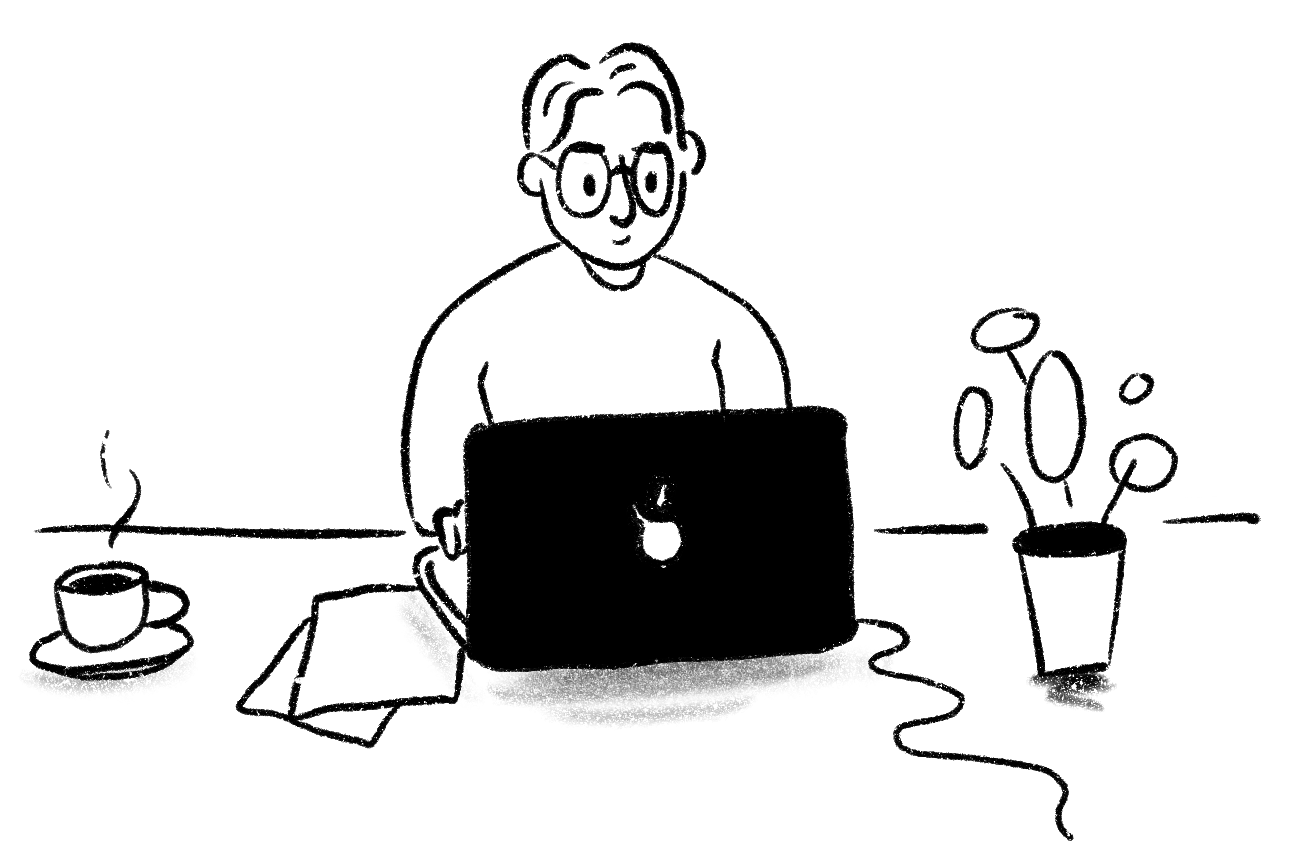
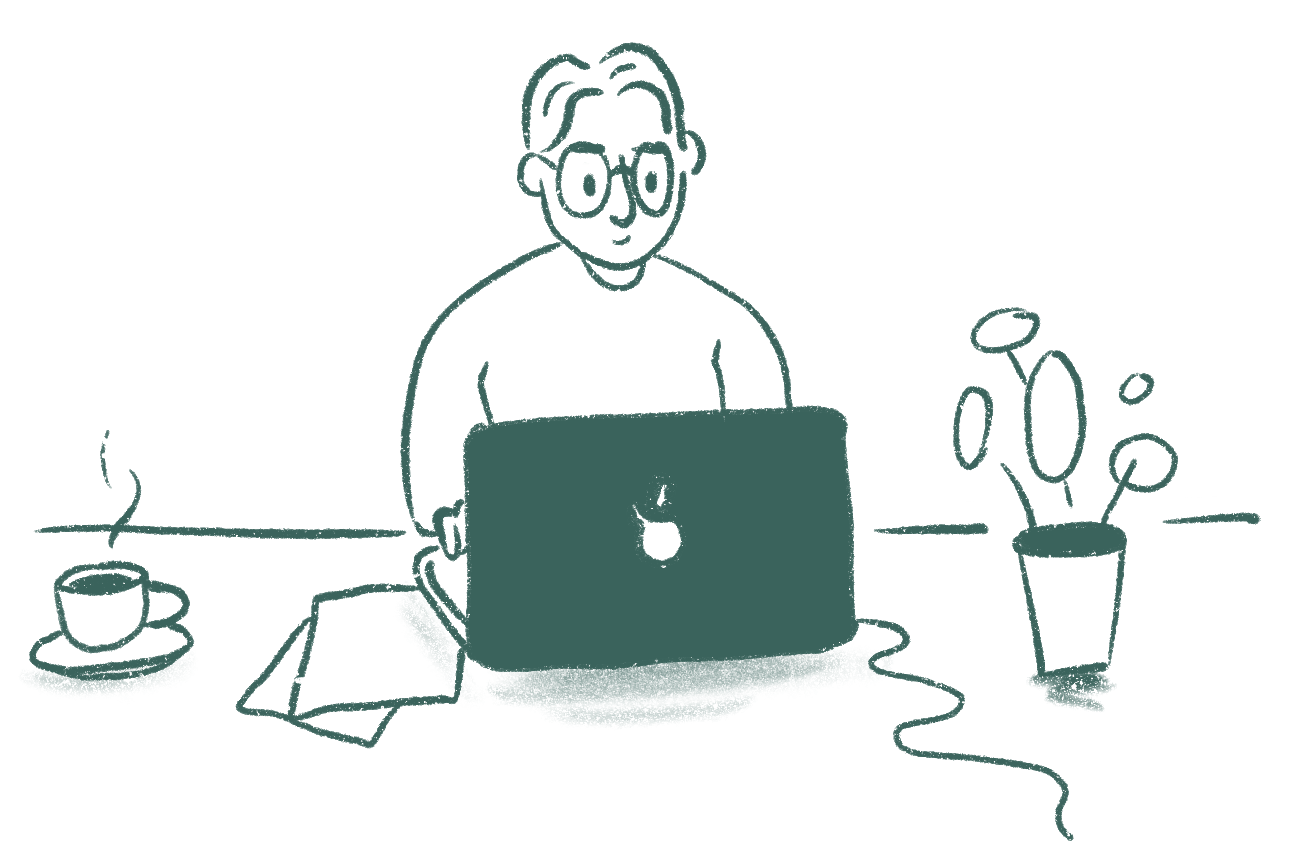
recolors

diff --git a/main-styles.css b/main-styles.css
@@ -16,9 +16,9 @@ font weights: 300,400,500,600,700,800,900
 :root {
     --white-color: #ffffff;
     --black-color: #313131;
-    --black-color-inactive: #31313180;
-    --background-color: #e4e3da;
-    --text-color: #313131;
+    --black-color-inactive: #817E75;
+    --background-color: #F0EDE0;
+    --text-color: #3A635C;
     --font-main: 'Inter', sans-serif;
     --font-weight-regular: 400;
     --font-weight-medium: 500;
@@ -45,22 +45,21 @@ a {
 
 /* -------------------------------------Type Styles---------------------------------- */
 h1 {
-    color: #2D2D2D;
+    color: var(--text-color);
 
     font-family: var(--font-main);
-    font-style: normal;
     font-weight: 700;
+    font-style: normal;
     font-size: 8em;
-    line-height: 120%;
+    line-height: 100%;
     /* or 156px */
-    text-align: center;
     letter-spacing: -0.04em;
 }
 
 h2 {
     padding:0%;
     margin:0px;
-    color: #2D2D2D;
+    color: var(--text-color);
 
     font-family: var(--font-main);
     font-style: normal;
@@ -84,7 +83,7 @@ h3 {
 
     letter-spacing: -0.04em;
 
-    color: #2D2D2D;
+    color: var(--text-color);
 }
 
 h4 {
@@ -100,13 +99,13 @@ h4 {
 
     letter-spacing: -0.04em;
 
-    color: #2d2d2d83;
+    color: var(--text-color);
 }
 
 h5 {
     padding:0%;
     margin:0px;
-    color: #2D2D2D;
+    color: var(--text-color);
 
     font-family: var(--font-main);
     font-style: normal;
@@ -140,7 +139,7 @@ nav ol {
 
 nav a {
     text-decoration: none;
-    color: var(--black-color);
+    color: var(--text-color);
 }
 
 .link-active {
@@ -200,7 +199,7 @@ nav a {
 
 footer {
     margin:0px;
-    background-color: var(--black-color);
+    background-color: var(--text-color);
 
     display: grid;
     padding: 50px;
@@ -212,6 +211,7 @@ footer {
 .footer-icon {
     grid-column: 1 / 2;
     grid-row: 1;
+    width: 125px;
 }
 
 .foot-list-title {
@@ -360,7 +360,7 @@ footer p {
         height: 100%;
         bottom: 0;
         left: 0;
-        background-color: #ffee02;
+        background-color: #00FFD3;
         transform-origin: bottom left;
         transition: transform 0.25s ease-out;
         z-index: -1;
@@ -384,7 +384,7 @@ footer p {
         height: 100%;
         bottom: 0;
         left: 0;
-        background-color: #ffee02;
+        background-color: #00FFD3;
         transform-origin: bottom right;
         transition: transform 0.25s ease-out;
         z-index: -1;

diff --git a/index.html b/index.html
@@ -10,7 +10,7 @@
     <link rel="stylesheet" type="text/css" href="main-styles.css"/>
     
     <!-- Font support -->
-    <link rel="preconnect" href="https://fonts.googleapis.com"> 
+    <link rel="stylesheet" href="https://use.typekit.net/wah1vte.css">
     <link rel="preconnect" href="https://fonts.gstatic.com" crossorigin> 
     <link href="https://fonts.googleapis.com/css2?family=Inter:wght@300;400;500;600;700;800;900&display=swap" rel="stylesheet">
 </head>
@@ -37,7 +37,6 @@
 
         <div class="hero-type-cont">
             <h2 id="hero-par">I’m a hybrid designer who loves to help brands and independent creators enhance who they are by unifying their visuals, all while catering to their target audience.</h2>
-            <h4 id="hero-cap">The way we handle our digital footprint is more important than ever. Thats why it is important to put its growth in the hands of someone who knows the climate like the back of their hand.</h4>
         </div>
         
         <!-- Line 2 - What can I do for you?  -->
@@ -86,7 +85,7 @@
     </section>
 </body>
 <footer>
-    <img src="img/max-lair-logo.svg"class="footer-icon">
+    <img src="img/smile-icon.svg" class="footer-icon">
     <div class="pages">
         <a class="foot-list-title">pages</a>
         <a href="subpages/index.html">home</a>

diff --git a/index-styles.css b/index-styles.css
@@ -21,7 +21,7 @@
     height: auto;
     float: right;
     transform-origin: bottom right;
-    opacity: 80%;
+    opacity: 100%;
 }
 
 #hero-name{
@@ -115,7 +115,7 @@
 
 .services-container {
     margin-top: 300px;
-    margin-bottom: 200px;
+    margin-bottom: 125px;
     display: flex;
     flex-direction: row;
     flex-wrap: wrap;
@@ -130,8 +130,11 @@
     align-items: center;
     justify-content: top;
     max-width: 325px;
-    
+    padding: 25px;
+    border-radius: 15px;
+    background-color: var(--text-color);
     visibility: hidden;
+    filter: drop-shadow(rgba(0, 0, 0, 0.25) 0px 4px 4px);
 }
 
 .service img {
@@ -152,12 +155,14 @@
     word-wrap: break-word;
     text-align: center;
     justify-content: center;
+    color: var(--background-color);
 }
 
 .service h4 {
     word-wrap: break-word;
     text-align: center;
     justify-content: center;
+    color: var(--background-color);
 }
 
 

diff --git a/subpages/portfolio.html b/subpages/portfolio.html
@@ -11,6 +11,7 @@
     <link rel="stylesheet" type="text/css" href="../main-styles.css"/>
     
     <!-- Font support -->
+    <link rel="stylesheet" href="https://use.typekit.net/wah1vte.css">
     <link rel="preconnect" href="https://fonts.googleapis.com"> 
     <link rel="preconnect" href="https://fonts.gstatic.com" crossorigin> 
     <link href="https://fonts.googleapis.com/css2?family=Inter:wght@300;400;500;600;700;800;900&display=swap" rel="stylesheet">
@@ -66,7 +67,7 @@
 </body>
 
 <footer>
-    <img src="../img/max-lair-logo.svg"class="footer-icon">
+    <img src="../img/smile-icon.svg"class="footer-icon">
     <div class="pages">
         <a class="foot-list-title">pages</a>
         <a href="../index.html">home</a>

diff --git a/subpages/portfolio-styles.css b/subpages/portfolio-styles.css
@@ -71,7 +71,7 @@
     height: 45px;
     border-radius: 100px;
     border-style: solid;
-    border-color: var(--black-color);
+    border-color: var(--text-color);
     background-color: var(--background-color);
     background-image: url(../img/arrow.png);
     background-position: center;

diff --git a/subpages/port-pages/lb-logo.html b/subpages/port-pages/lb-logo.html
@@ -114,7 +114,7 @@
 </body>
 
 <footer>
-    <img src="../../img/max-lair-logo.svg"class="footer-icon">
+    <img src="../../img/smile-icon.svg"class="footer-icon">
     <div class="pages">
         <a class="foot-list-title">pages</a>
         <a href="../index.html">home</a>

diff --git a/subpages/port-pages/fine-art.html b/subpages/port-pages/fine-art.html
@@ -90,7 +90,7 @@
 </body>
 
 <footer>
-    <img src="../../img/max-lair-logo.svg"class="footer-icon">
+    <img src="../../img/smile-icon.svg"class="footer-icon">
     <div class="pages">
         <a class="foot-list-title">pages</a>
         <a href="../index.html">home</a>

diff --git a/subpages/port-pages/joy-design.html b/subpages/port-pages/joy-design.html
@@ -90,7 +90,7 @@
 </body>
 
 <footer>
-    <img src="../../img/max-lair-logo.svg"class="footer-icon">
+    <img src="../../img/smile-icon.svg"class="footer-icon">
     <div class="pages">
         <a class="foot-list-title">pages</a>
         <a href="../index.html">home</a>

diff --git a/subpages/port-pages/log-cans.html b/subpages/port-pages/log-cans.html
@@ -82,7 +82,7 @@
 </body>
 
 <footer>
-    <img src="../../img/max-lair-logo.svg"class="footer-icon">
+    <img src="../../img/smile-icon.svg"class="footer-icon">
     <div class="pages">
         <a class="foot-list-title">pages</a>
         <a href="../index.html">home</a>

diff --git a/subpages/about-me.html b/subpages/about-me.html
@@ -77,7 +77,7 @@
 </body>
 
 <footer>
-    <img src="../img/max-lair-logo.svg"class="footer-icon">
+    <img src="../img/smile-icon.svg"class="footer-icon">
     <div class="pages">
         <a class="foot-list-title">pages</a>
         <a href="../index.html">home</a>

diff --git a/subpages/passion.html b/subpages/passion.html
@@ -69,7 +69,7 @@
 </body>
 
 <footer>
-    <img src="../img/max-lair-logo.svg"class="footer-icon">
+    <img src="../img/smile-icon.svg"class="footer-icon">
     <div class="pages">
         <a class="foot-list-title">pages</a>
         <a href="../index.html">home</a>
